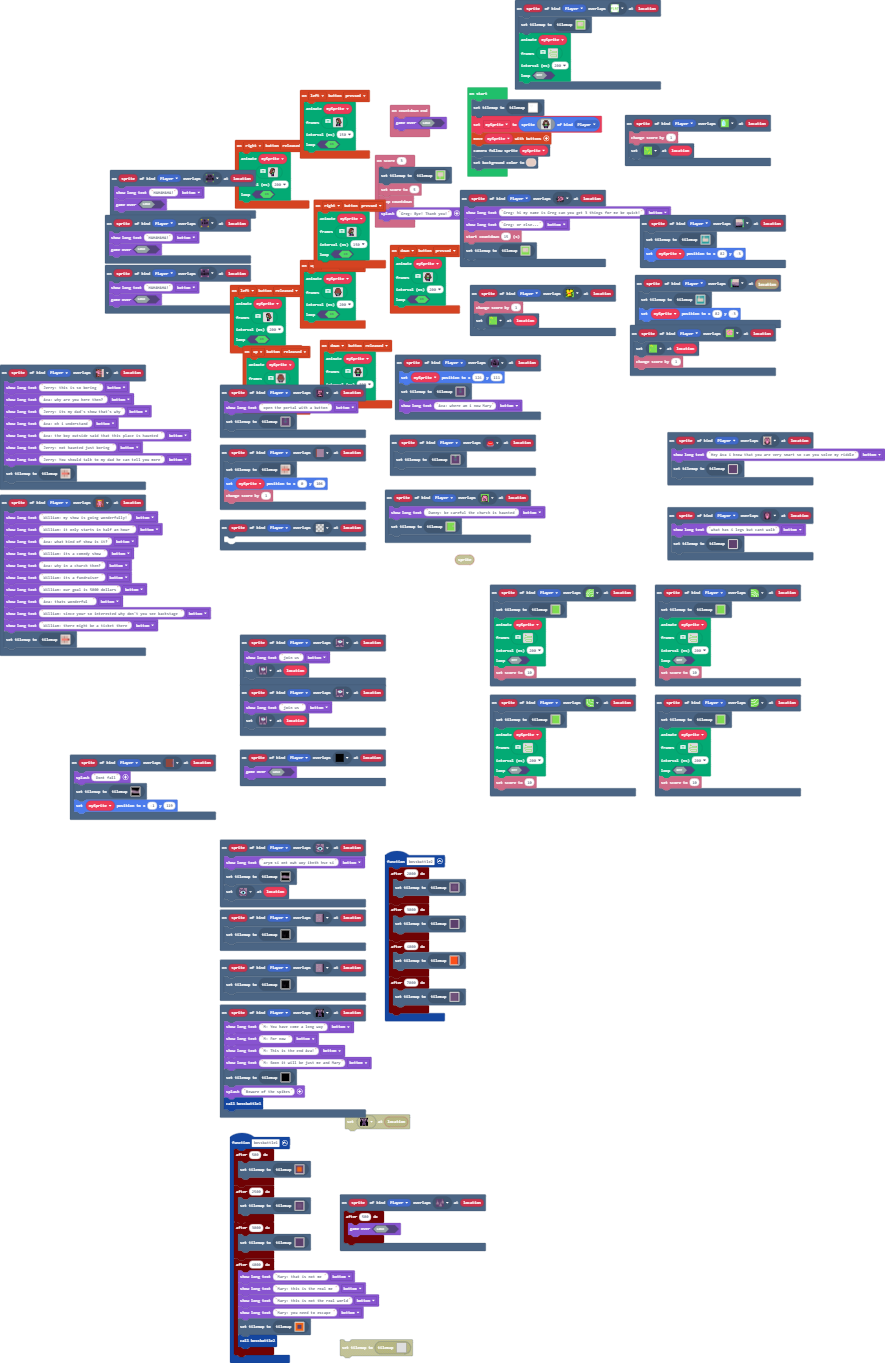
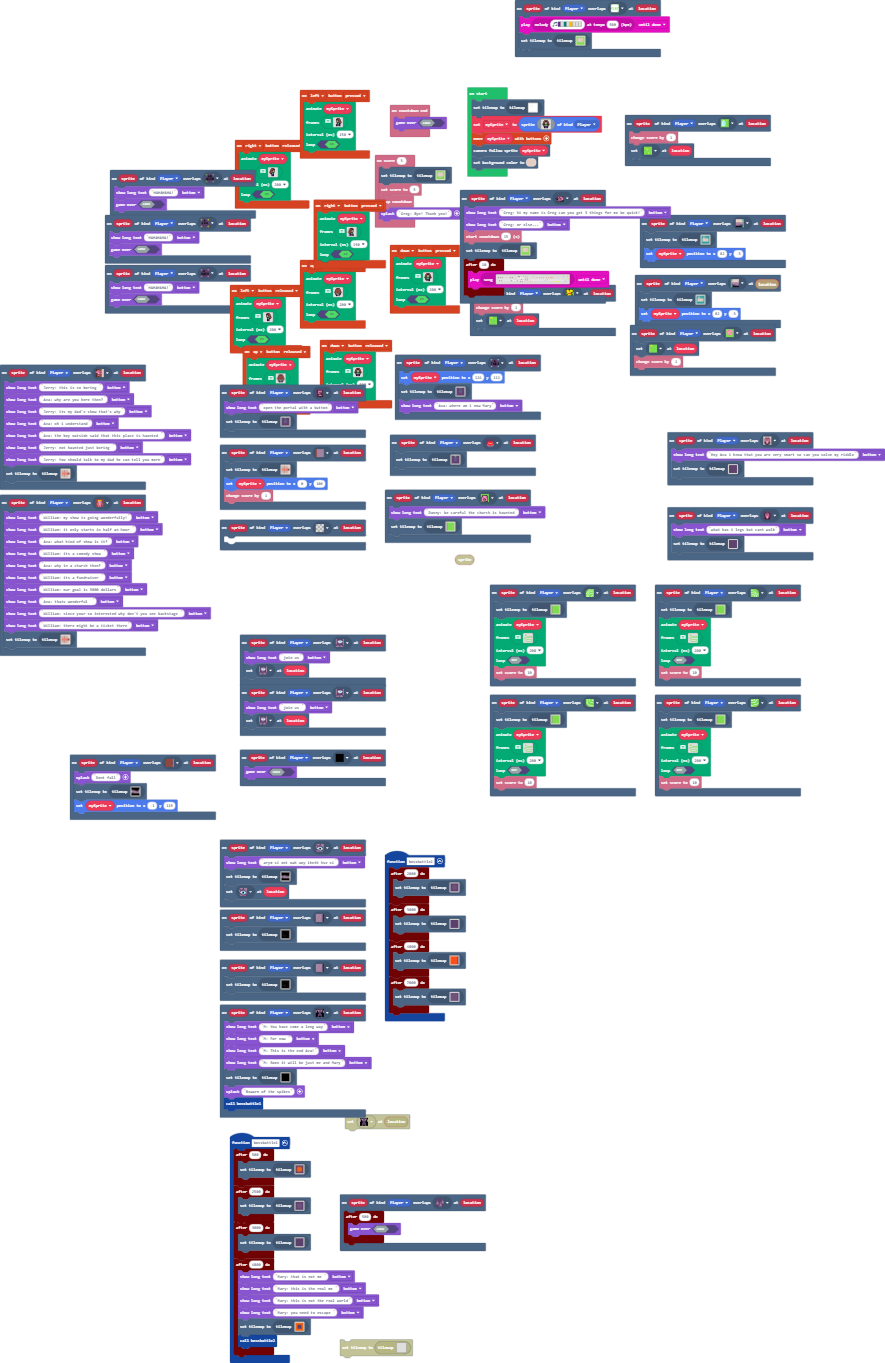
geggjuð tónlist

Changed region(s): [[0.5797, 0.0, 0.7627, 0.0924], [0.5186, 0.1849, 0.7017, 0.2465]]

diff --git a/main.ts b/main.ts
@@ -3,6 +3,9 @@ scene.onOverlapTile(SpriteKind.Player, assets.tile`myTile0`, function (sprite, l
     game.showLongText("Greg: or else...", DialogLayout.Bottom)
     info.startCountdown(15)
     tiles.setCurrentTilemap(tilemap`level0`)
+    timer.after(10, function () {
[1 lines of base64/hex data omitted]
+    })
 })
 controller.up.onEvent(ControllerButtonEvent.Pressed, function () {
     animation.runImageAnimation(
@@ -502,98 +505,8 @@ scene.onOverlapTile(SpriteKind.Player, assets.tile`myTile81`, function (sprite, 
     mySprite.setPosition(-1, 119)
 })
 scene.onOverlapTile(SpriteKind.Player, assets.tile`myTile20`, function (sprite, location) {
+    music.play(music.stringPlayable("D - F - A - - - ", 500), music.PlaybackMode.UntilDone)
     tiles.setCurrentTilemap(tilemap`level1`)
-    animation.runImageAnimation(
-    mySprite,
-    [img`
-        . . . . . . . . . . . . . . . . 
-        . . 7 . . . . . . . . . . . . . 
-        . . 7 7 . . . . . . . . . . . . 
-        . . . 7 7 7 . . . . . . . . . . 
-        . . . . . . 7 7 7 7 7 7 7 7 7 7 
-        . . . . . . . . . . . . . . . 7 
-        . . . . . . . . . . . . . . 7 7 
-        . 7 7 7 7 7 7 7 7 7 7 7 7 7 . . 
-        . 7 . . . . . . . . . . . . . . 
-        . 7 7 . . . . . . . . . . . . . 
-        . . . 7 7 . . . . . . . . . . . 
-        . . . . . 7 7 7 7 7 7 7 7 7 7 7 
-        . . . 7 . . . . . . . . . . . 7 
-        . . . 7 . . . . . . . . . . . 7 
-        . . . . 7 7 7 7 7 7 7 7 7 7 7 7 
-        . . . . . . . . . . . . . . . . 
-        `,img`
-        . . . . . . . . . . . . . . . . 
-        . . 7 . . . . . . . . . . . . . 
-        . . 7 7 . . . . 7 7 7 7 7 7 . . 
-        . . . 7 7 7 7 7 7 7 7 7 7 7 . . 
-        . . . 7 7 . 7 7 7 7 7 7 7 7 7 7 
-        . . 7 . . . . . . . . . . . . 7 
-        . . 7 . . . . . . . . . . . 7 7 
-        . 7 7 7 7 7 7 7 7 7 7 7 7 7 . . 
-        . 7 . . 7 7 7 7 7 7 . . . . . . 
-        . 7 7 . . . . . . . 7 7 . . . . 
-        . . . 7 7 . . . . . 7 7 . . . . 
-        . . . . . 7 7 7 7 7 7 7 7 7 7 7 
-        . . . 7 7 7 7 7 . . . . . . . 7 
-        . . . 7 . . . . . . . . . . . 7 
-        . . . . 7 7 7 7 7 7 7 7 7 7 7 7 
-        . . . . . . . . . . . . . . . . 
-        `,img`
-        . . . . . . . . . . . . . . . . 
-        . . 7 . . . . . . . . . . . . . 
-        . . 7 7 . e 7 7 7 7 7 7 7 7 . . 
-        . . . 7 7 7 7 7 7 7 7 7 7 7 . . 
-        . . . 7 7 7 7 7 7 7 7 7 7 7 7 7 
-        . . 7 . . . 7 7 7 7 . . . . . 7 
-        . . 7 . . e e e e e e . . . 7 7 
-        . 7 7 7 e e e 7 7 7 7 e e e . . 
-        . 7 . . e e 7 7 7 d 7 7 e e . . 
-        . 7 7 . . . d d d d d 7 7 7 . . 
-        . . . 7 7 d d d d d d 7 7 7 . . 
-        . . . . 7 7 7 7 7 7 7 7 7 7 7 7 
-        . . . 7 7 7 7 7 a a a a . . . 7 
-        . . . 7 . . . a a . . . . . . 7 
-        . . . . 7 7 f 7 7 7 7 7 f 7 7 7 
-        . . . . . . . . . . . . . . . . 
-        `,img`
-        . . . . . . . . . . . . . . . . 
-        . 7 . . . . . . . . . . . . . . 
-        . 7 7 7 . . . . . . . 7 7 . . . 
-        . . . 7 7 7 7 7 7 7 7 7 7 . . . 
-        . . . . . 7 7 7 7 7 7 7 7 7 7 . 
-        . . . 7 7 7 7 d 7 7 7 7 7 7 7 . 
-        . . 7 7 7 7 7 7 7 7 d e . . . . 
-        7 7 7 . e d f d d 7 7 e . . . . 
-        7 7 . . e d d d d d 7 7 . . . . 
-        7 7 7 7 e e d d d d e 7 . . . . 
-        7 7 7 . e e e d d e e 7 7 . . . 
-        . . 7 7 7 7 7 7 7 7 7 7 7 7 7 7 
-        . . . . . 7 7 7 7 7 7 . . . . 7 
-        . . . . . 7 a a a a 7 . . . . 7 
-        . . . . 7 7 7 7 7 7 7 7 7 7 7 7 
-        . . . 7 7 f f . . f f . . . . . 
-        `,img`
-        . . . . . . . . . . . . . . . . 
-        . . . . . . . . . . . . . . . . 
-        . . . . . . . . . . . . . . . . 
-        . . . . . . . . . . . . . . . . 
-        . . . . . e e e e e e . . . . . 
-        . . . . e e d d d d e e . . . . 
-        . . . . e d d d d d d e . . . . 
-        . . . . e d f d d f d e . . . . 
-        . . . . e d d d d d d e . . . . 
-        . . . . e e d d d d e e . . . . 
-        . . . . e e e d d e e e . . . . 
-        . . . . . 7 7 7 7 7 7 . . . . . 
-        . . . . . 7 7 7 7 7 7 . . . . . 
-        . . . . . 7 a a a a 7 . . . . . 
-        . . . . . d a . . a d . . . . . 
-        . . . . . f f . . f f . . . . . 
-        `],
-    200,
-    false
-    )
 })
 controller.right.onEvent(ControllerButtonEvent.Pressed, function () {
     animation.runImageAnimation(
